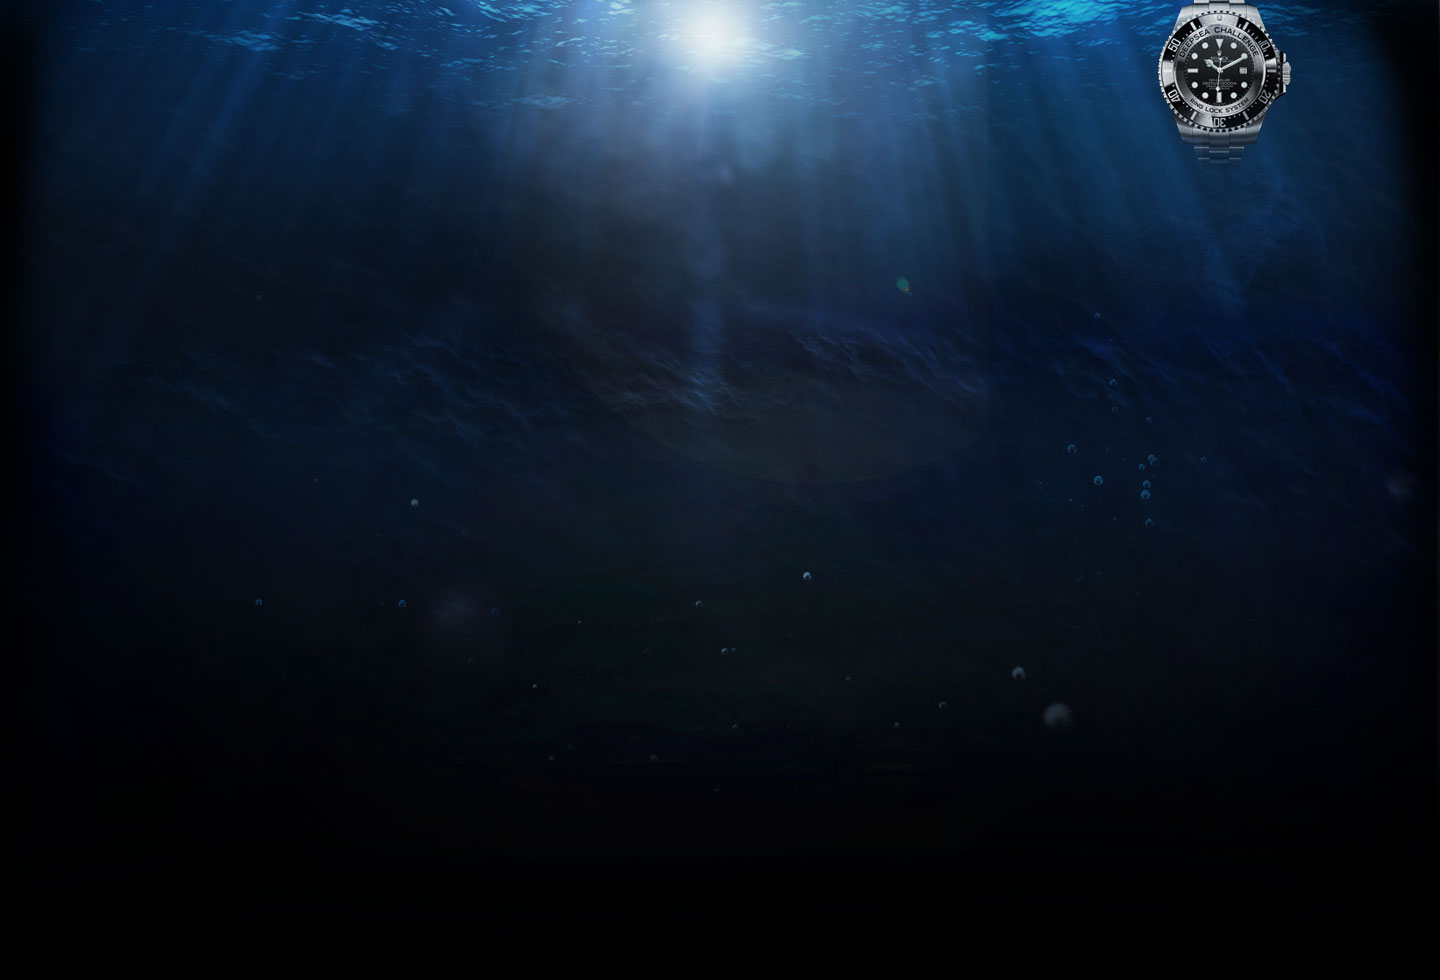
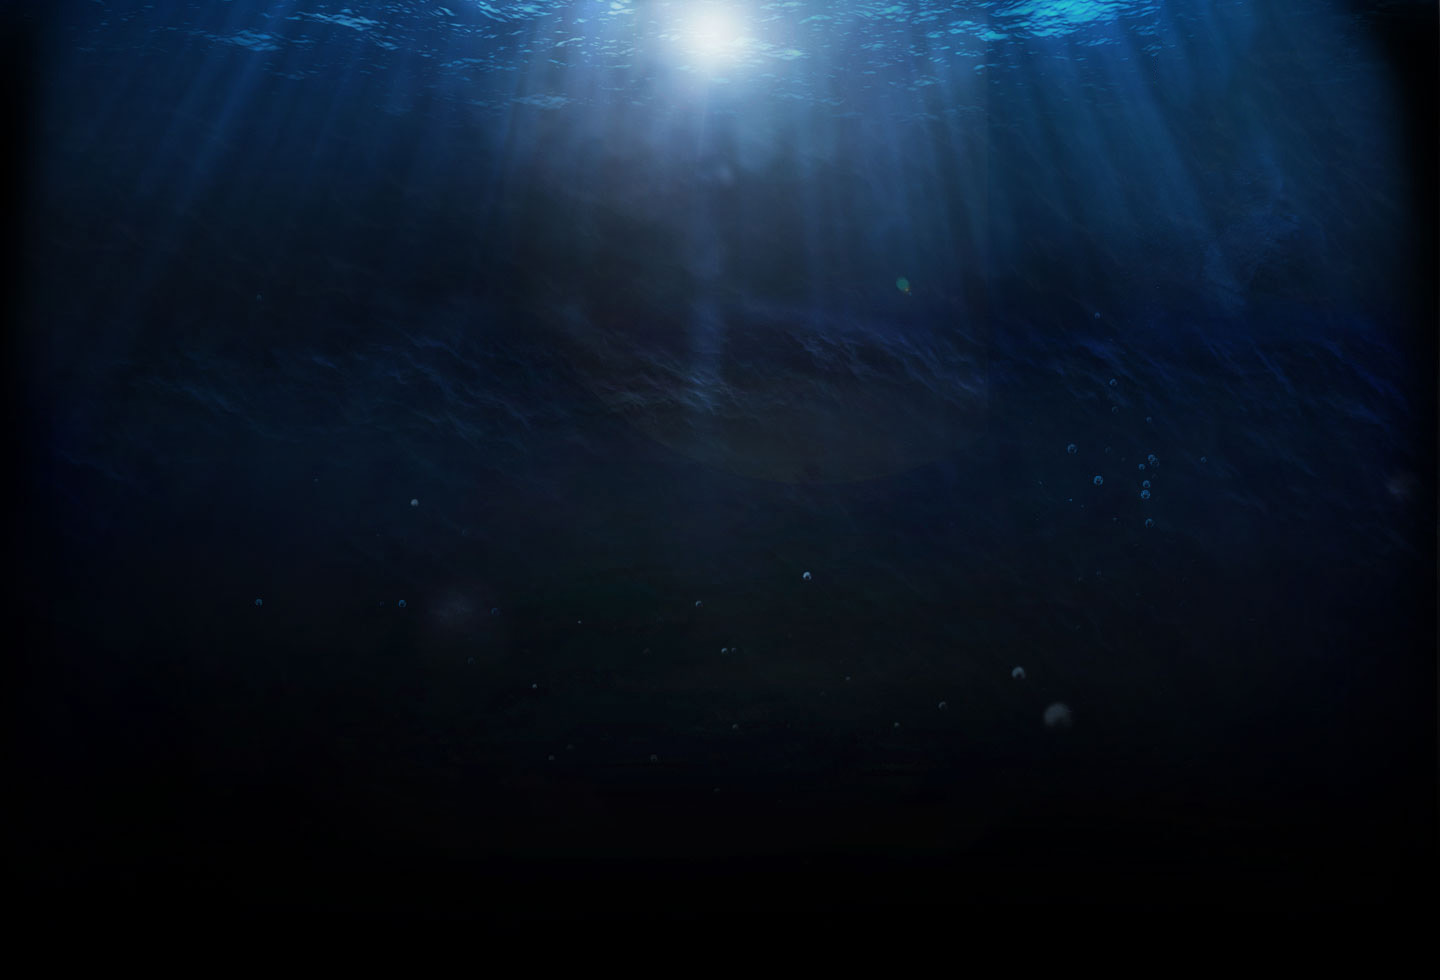
clean up3

Changed region(s): [[0.7812, 0.0, 0.9062, 0.1531]]

diff --git a/index.html b/index.html
@@ -168,7 +168,7 @@
 			<header id="masthead">
 				
 				<!-- Site Title -->
-				<h1 id="deep-challenge"><a href="/">Mariana Trench</a></h1>
+				<img src="images/logo_deepchallenge.png" style="width: 50%;margin-left: auto;margin-right: auto;display: block;"></img>
 
 			</header>					
 					
@@ -181,7 +181,7 @@
 							
 							<!-- Trailer -->
 							<!--<img src="http://placehold.it/829x466" style="margin:10px 0 15px;" />-->
-							<iframe width="829" height="466" src="//www.youtube.com/embed/C8B4hClNWWc" frameborder="0" style="border:0; margin:10px 0 15px;" allowfullscreen></iframe>
+							<!-- <iframe width="829" height="466" src="//www.youtube.com/embed/C8B4hClNWWc" frameborder="0" style="border:0; margin:10px 0 15px;" allowfullscreen></iframe> -->
 							
 							<div id="hero" class="cross_fade dot_nav rotate_8">
 								<h2 class="ir">Featured</h2>

diff --git a/css/style.css b/css/style.css
@@ -147,6 +147,7 @@ a.button.left, .content a.button.left, #page-pagination .left a {
 	background: url(../images/logo_deepchallenge.png);
 	height: 163px;
 	width: 380px;
+	position: center;
 }
 #national-geographic {
 	float: left;
